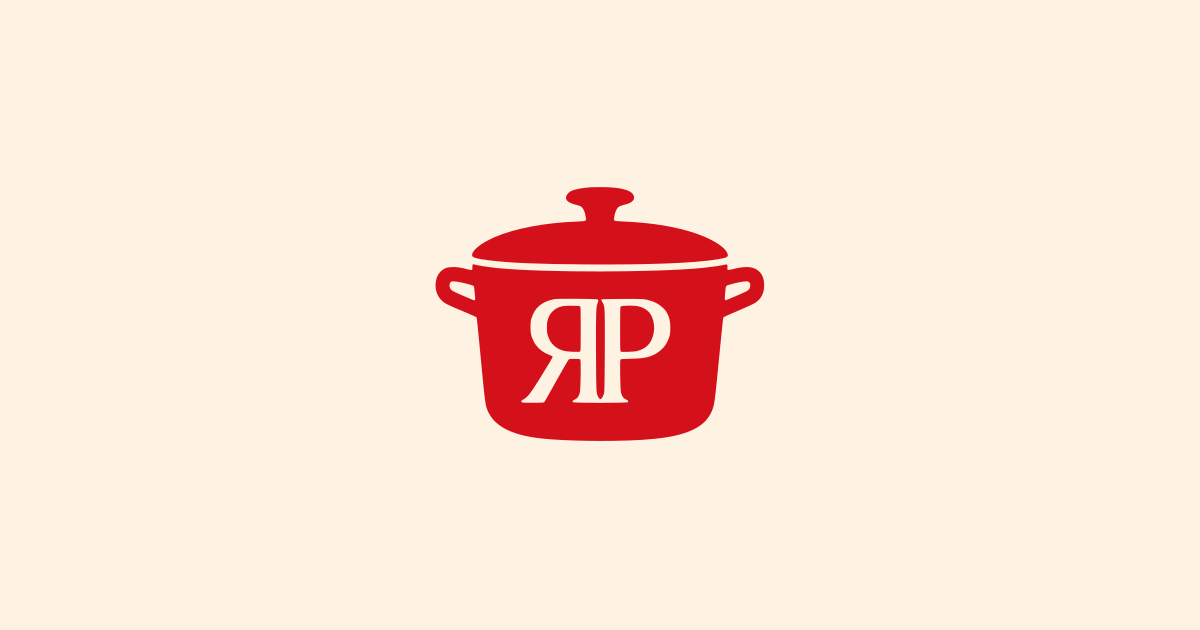
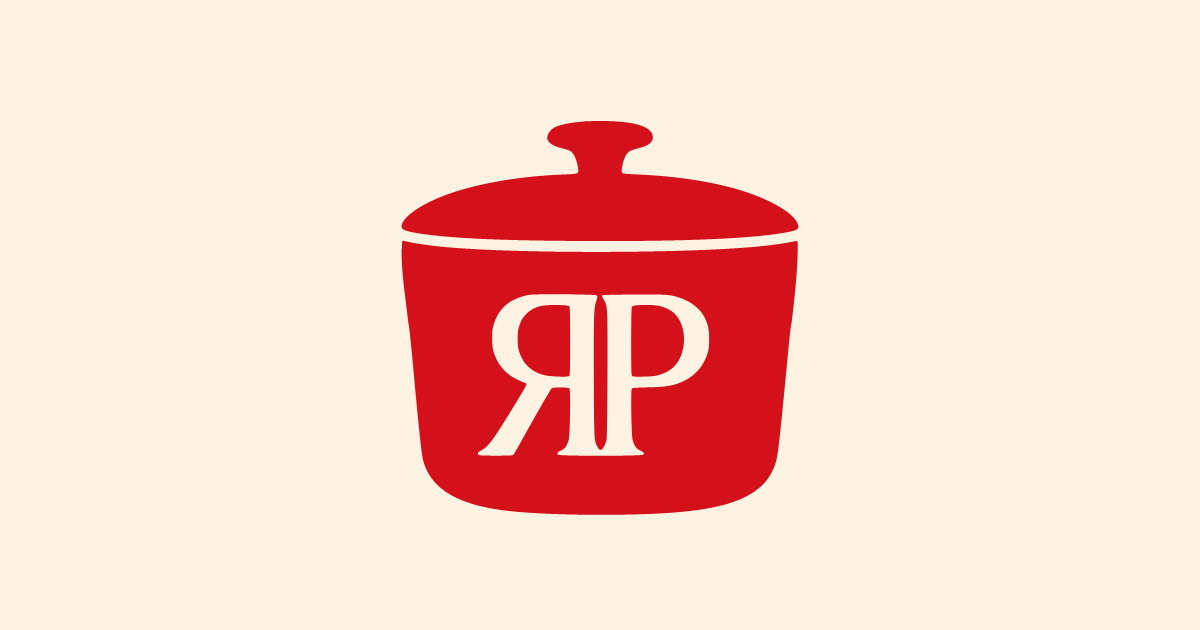
The pot loses its handles, and the frame moves in
The owner's decision, and both halves of it are in the vector rather than in a
bitmap.

**The handles are cut out of the outline.** The body path goes from 30
segments to 19 and loses the two subpaths that held the cream inside each
handle. In their place stands one cubic per side: vertical where it leaves
the rim, turned onto the direction of the pot wall where it rejoins it, so
each seam is tangent-continuous. Nothing is painted over, nothing erased --
the outline simply no longer has handles. `mark.svg` got the same surgery
with its own numbers.

**The artwork is scaled 1.55x about the point the owner picked**, as a
transform around the paths, so every size still renders from the vector.

Every derived image is regenerated: `brand/icon-1024.png`, the four site
assets and the Open Graph card. They were rendered here with a scanline
rasteriser rather than with `tools/makeicons.py`, because this machine has
neither rsvg-convert nor Pillow -- four sub-scanlines per row with exact
coverage in x, which is what an antialiased fill is. Re-running makeicons.py
on a machine that has the tools is the canonical path and should differ by no
more than edge dithering.

Changed region(s): [[0.3083, 0.181, 0.6783, 0.8444]]

diff --git a/brand/README.md b/brand/README.md
@@ -12,6 +12,31 @@ Source of truth for the app icon and every derived image on the site.
 Everything in `../assets/` and `icon-1024.png` is rendered from `icon.svg` by
 `tools/makeicons.py`. Do not edit them by hand.
 
+## 2026-09-10: the handles came off, and the crop moved in
+
+The owner asked for the pot without its handles and closer to the edge. Both
+changes are in the vector, not in a bitmap:
+
+* **The handles are cut out of the outline.** The body's outer path goes from
+  30 segments to 19, and the two handle openings — separate subpaths that
+  carried the cream inside each handle — are gone. In their place stands one
+  cubic on each side: vertical where it leaves the rim, and turned onto the
+  direction of the pot wall where it rejoins it, so the seam is
+  tangent-continuous. No cover-up shape, no eraser; the outline itself no
+  longer has handles.
+* **The artwork is scaled 1.55× about the point the owner picked** and the
+  frame cuts what falls outside. That is a transform around the paths, so
+  every size still renders from the vector rather than from a crop of a
+  bitmap.
+
+`mark.svg` got the same surgery with its own numbers — its outline is a
+different trace of the same pot.
+
+**Why the pot lost its handles at all:** on a home screen the question is not
+*what is this* but *do I find it again*, and the handles were the widest, palest
+part of the silhouette. Without them the lid does the recognising. The honest
+cost is that a handleless pot seen head-on reads a little like a lidded jar.
+
 ## How the vector was made
 
 The artwork arrived as a 1024×1024 JPEG. It was recovered rather than redrawn:
